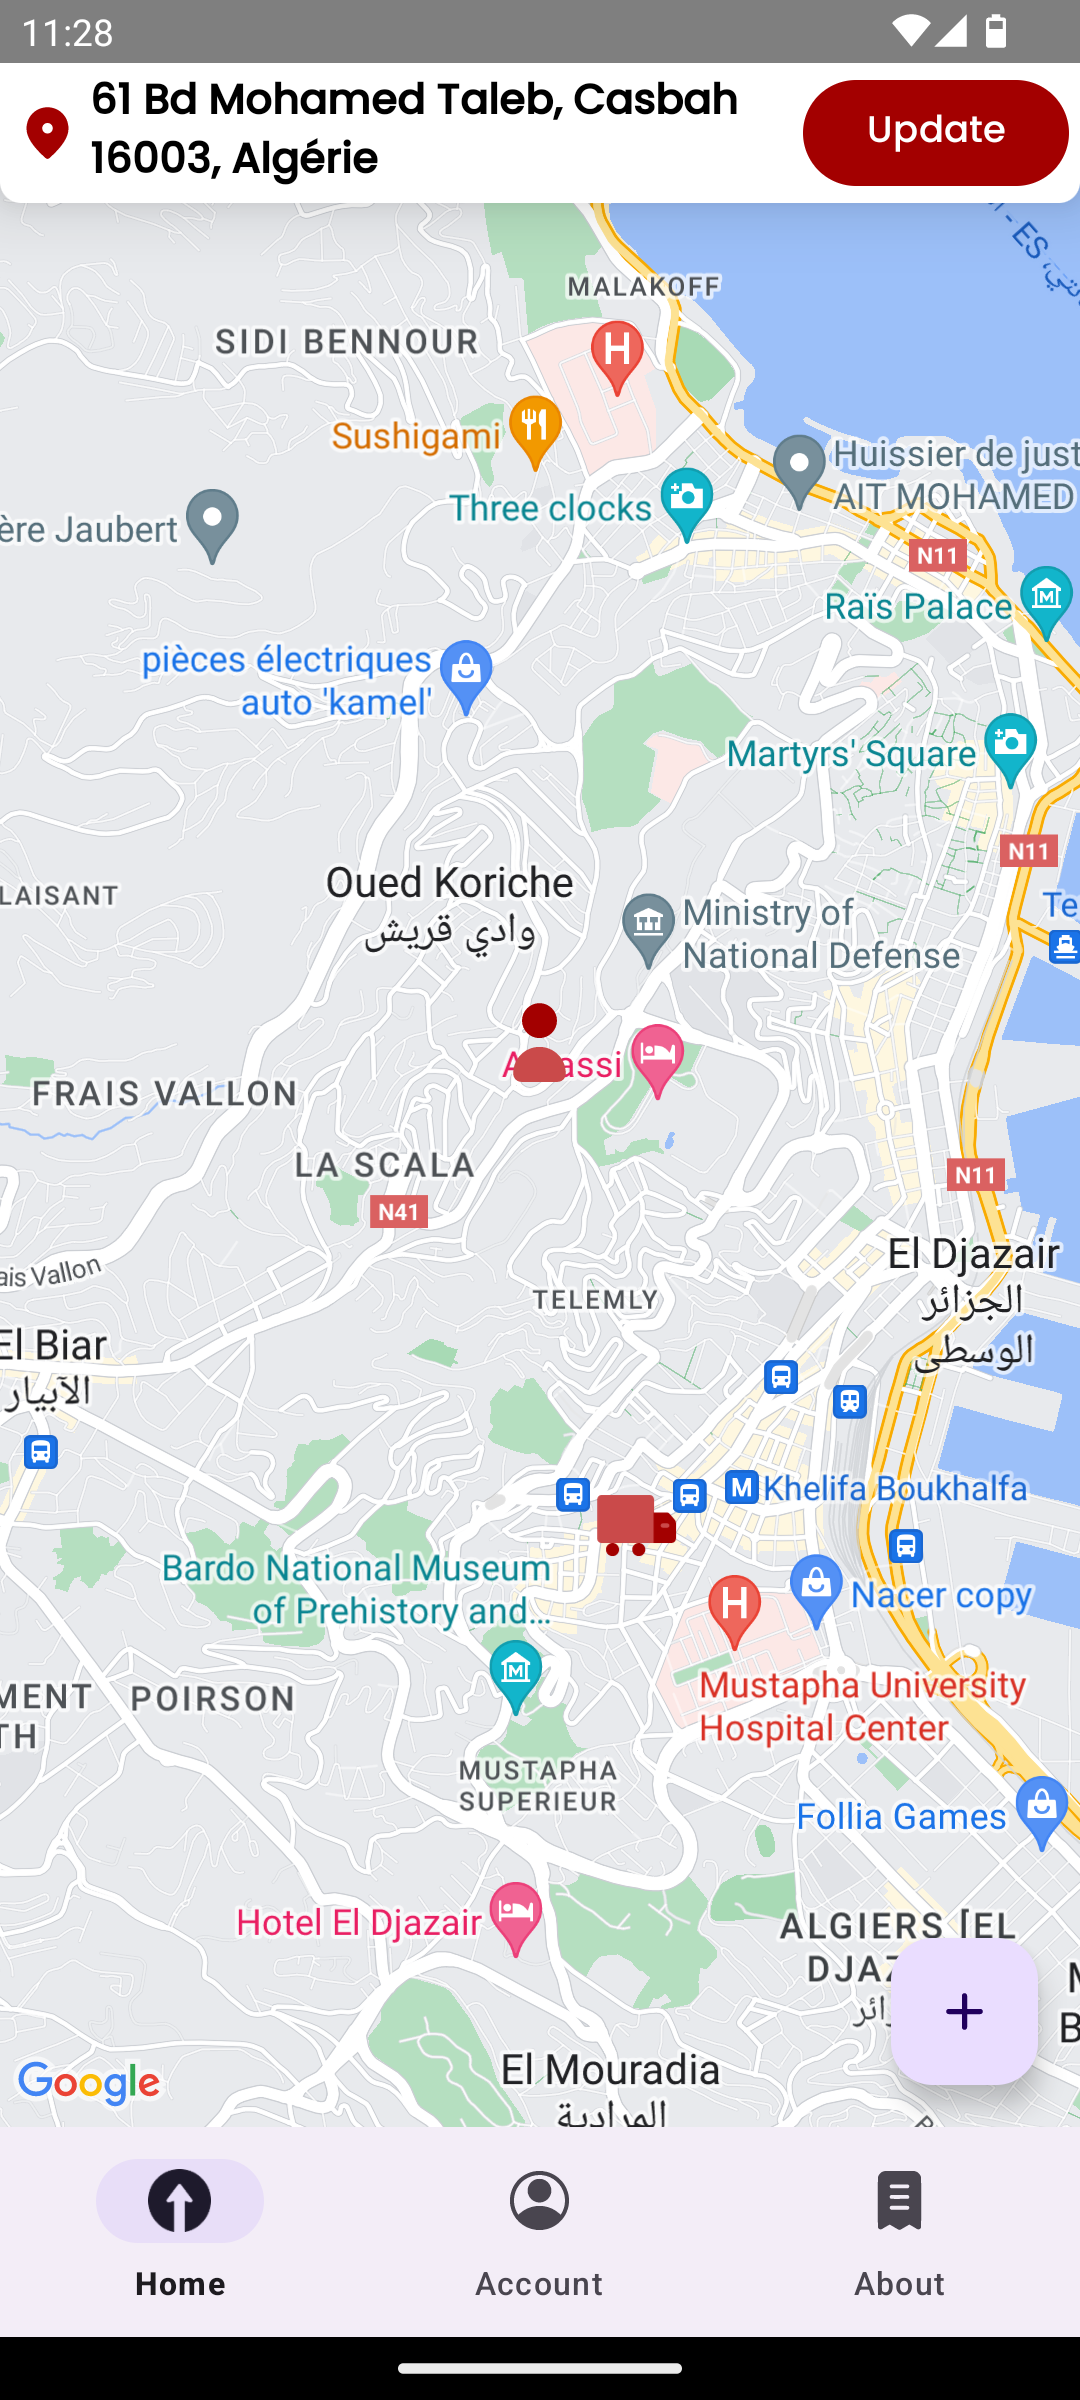
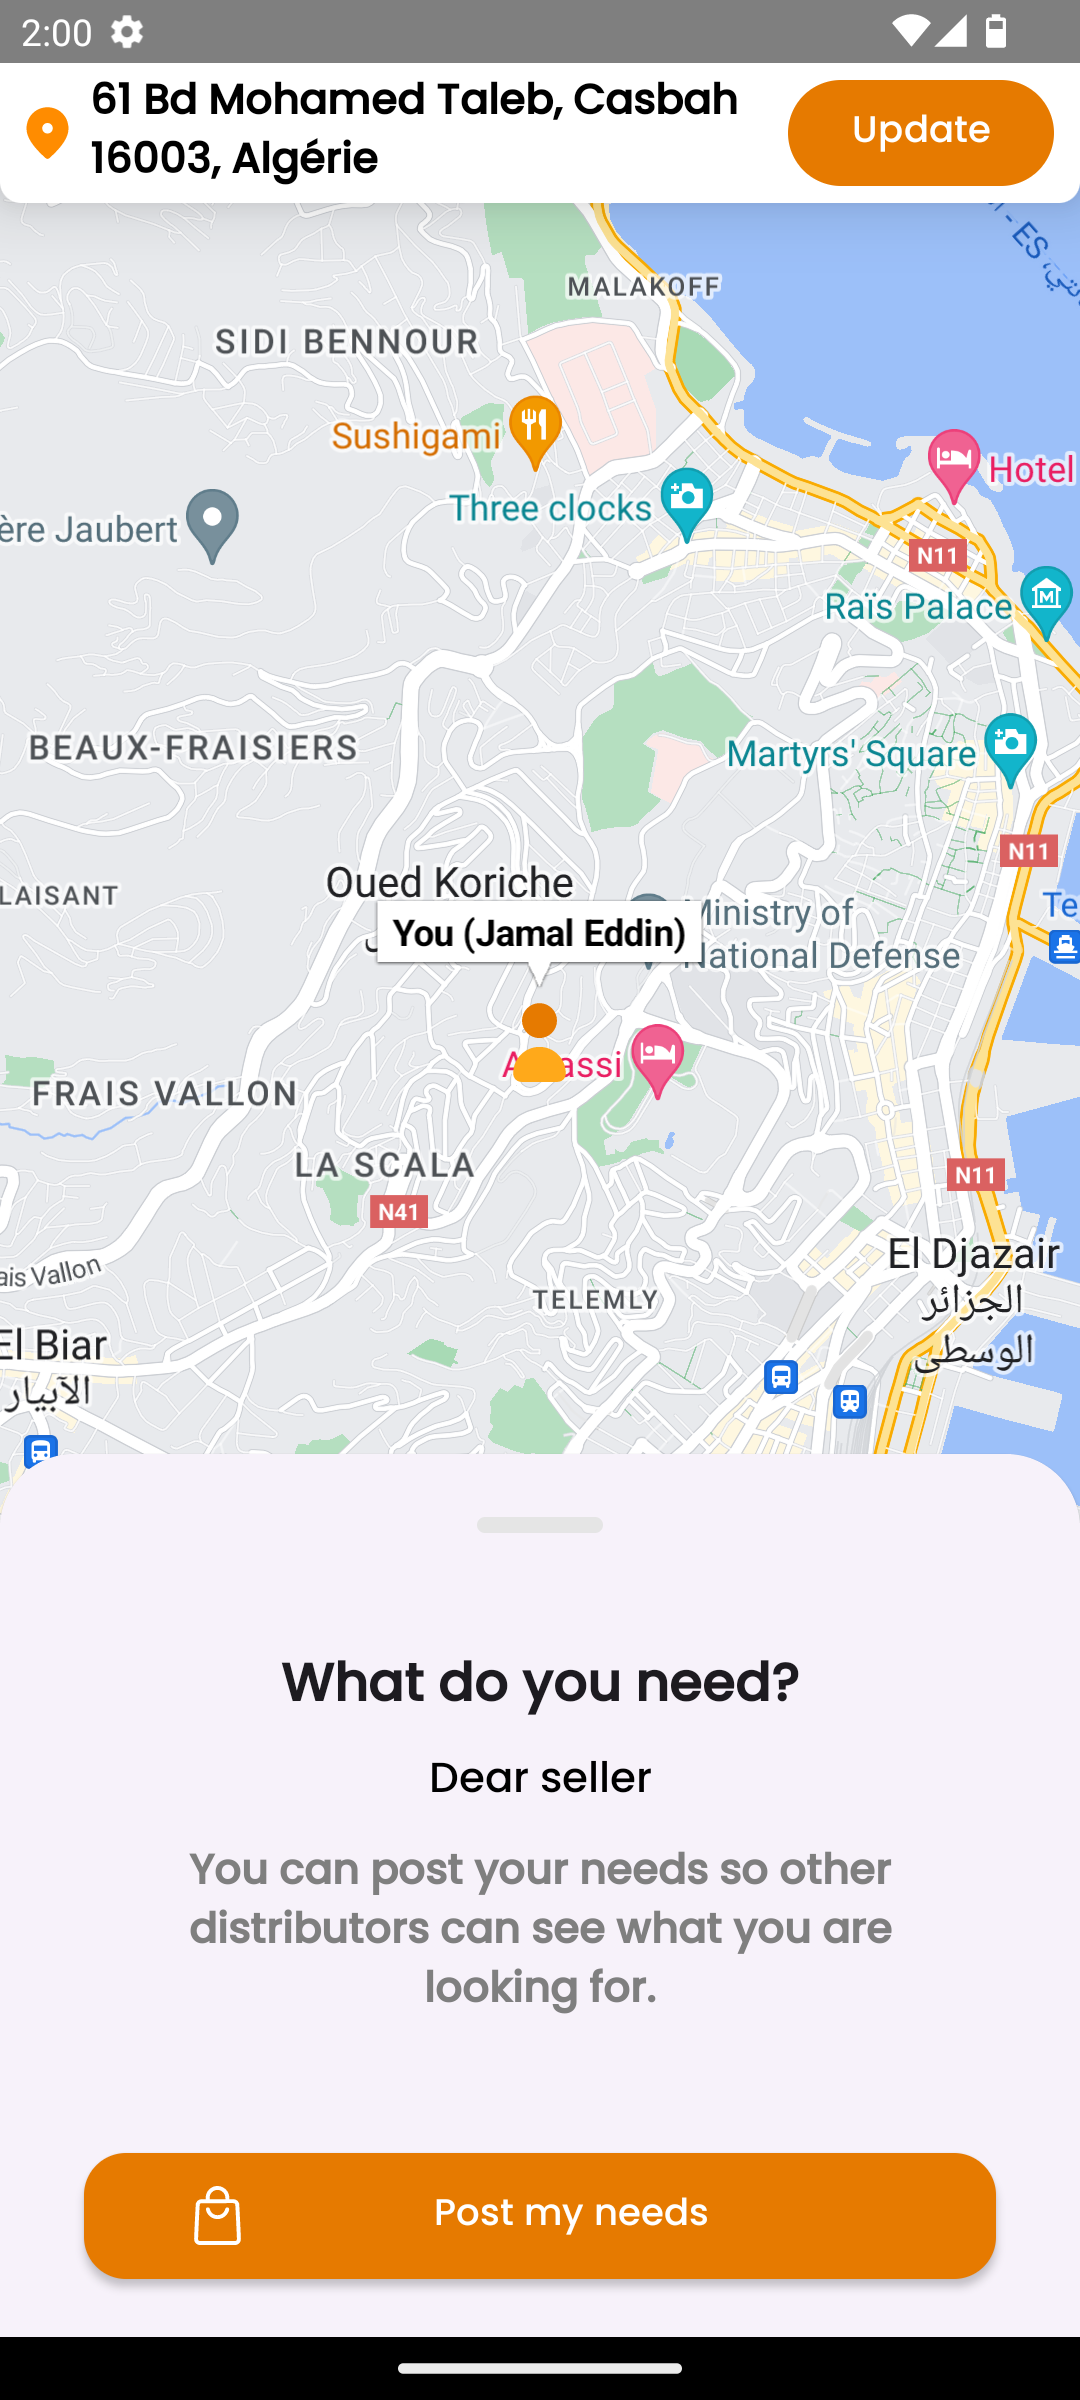
UI update 💫

diff --git a/README.md b/README.md
@@ -2,6 +2,8 @@
 
 # VendVite Express Mobile App
 
+##### we are updating our UI 💫
+
 <table>
   <tr>
     <td><img src="app/src/main/ic_launcher-playstore.png" alt="Logo"></td>
